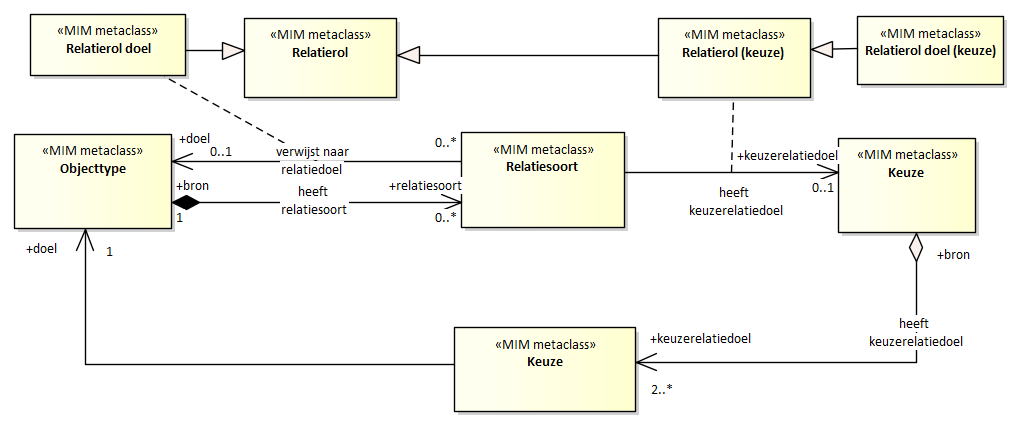
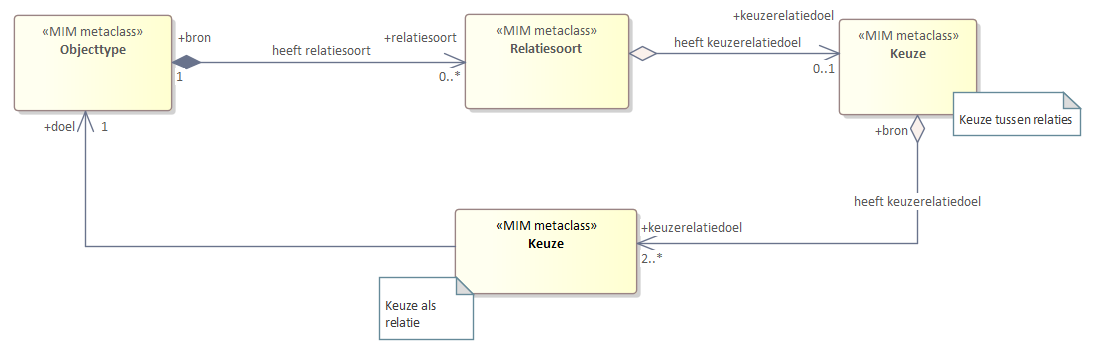
diagrammen keuze aangepast

diff --git a/MetamodelAlgemeen.md b/MetamodelAlgemeen.md
@@ -128,8 +128,8 @@ Het modelelement keuze bepaalt dat er meerdere opties mogelijk zijn, waarvan er 
  1. een keuze tussen datatypen ([diagram](#example-keuze-tussen-datatypen))
  1. een keuze tussen twee of meer attribuutsoorten ([diagram](#example-keuze-tussen-twee-of-meer-attribuutsoorten))
  1. een keuze tussen meerdere manieren om één betekenisvol attribuutsoort in te vullen ([diagram](#example-keuze-tussen-meerdere-manieren-om-een-betekenisvol-attribuutsoort-in-te-vullen))
- 1. een keuze tussen relatiedoelen, als nadere invulling van één betekenisvolle relatiesoort ([diagram](#example-keuze-tussen-relatiedoelen))
- 1. een keuze tussen twee of meer relatiesoorten/relatierollen (elk afzonderlijk betekenisvol) ([diagram(#linkOpnemen))
+ 1. een keuze tussen relatiedoelen, als nadere invulling van één betekenisvolle relatiesoort ([diagram](#example-keuze-tussen-relatiedoelen-met-één-betekenisvolle-relatiesoort))
+ 1. een keuze tussen twee of meer relatiesoorten/relatierollen (elk afzonderlijk betekenisvol) ([diagram](#example-keuze-tussen-2-of-meer-relatiesoorten/relatierollen-(elk-afzonderlijk-betekenisvol))
 
 Voor elke mogelijkheid is een aparte `«MIM metaclass»` beschikbaar in het metamodel.
  1. `«MIM metaclass»`: <code>Datatype(keuze)</code>
@@ -224,18 +224,22 @@ Voor elke mogelijkheid is een aparte `«MIM metaclass»` beschikbaar in het meta
     </ul>
   </p>
 
-</aside>
+</aside> -->
 
 <aside class="example" title="Keuze tussen 2 of meer relatiesoorten/relatierollen (elk afzonderlijk betekenisvol)">
   <p>Analoog aan de keuze tussen attribuutsoorten 2, maar dan voor relatiesoorten/relatierollen. Het objecttype kent 2 of meer relatiesoorten/relatierollen, met elk een eigen betekenis, en precies 1 hiervan is verplicht.</p>
 
   <p>Het bronobject heeft meerdere relaties die aan de orde/gevuld zouden kunnen zijn, maar er mag er altijd maar 1 aan de orde/gevuld zijn. Het bron objecttype kent 2 of meer relatiesoorten/relatierollen, met elk een eigen betekenis, en elk van deze relatiesoorten/relatierollen is gekoppeld aan (verwijst naar) een eigen doel objecttype.</p>
 
-  <p>Dit diagram is zonder de specificatie van de metagegevens hetzelfde als voor de keuze tussen relatiedoelen.Voor <code>Gegevensgroeptype</code> geldt hetzelfde patroon (2 of meer relatiesoorten vanuit een gegevensgroeptype naar een objecttype).</p>
+  <p>Dit diagram is uitgewerkt voor <code>Objecttype</code>.Voor <code>Gegevensgroeptype</code> geldt hetzelfde patroon (2 of meer relatiesoorten vanuit een gegevensgroeptype naar een objecttype).</p>
 
+  <figure id="KeuzeRelatiedoel5">
+    <img src="media/KeuzeRelatiedoel5.png" alt="" />
+    <figcaption>Keuze tussen relatiesoorten</figcaption>
+  </figure>
 
   <p>
-    <p>Toelichting: een bron objecttype of gegevensgroeptype kan normaal een relatiesoort/relatierol hebben, die gekoppeld is aan (verwijst naar) een doel objecttype. Als er sprake is van een relatiesoort/relatierol keuze, dan heeft het objecttype 1 koppeling met een _relatiesoort/relatierol keuze en deze keuze heeft 2 of meer relatiesoorten/relatierollen naar de doel objecttypes. Er moet een keuze gemaakt worden voor 1 van de relatiesoorten/relatierollen en daarmee voor het aan deze relatie gerelateerde doel objecttype. 
+    <p>Toelichting: een bron objecttype of gegevensgroeptype kan normaal een relatiesoort/relatierol hebben, die gekoppeld is aan (verwijst naar) een doel objecttype. Als er sprake is van een relatiesoort/relatierol keuze, dan heeft het objecttype 1 koppeling met een 'keuze als relatie' naar een keuze. De 'keuze als relatie' heeft geen betekenis. De 'keuze tussen relaties' heeft 2 of meer relatiesoorten/relatierollen naar de doel objecttypes. Er moet een keuze gemaakt worden voor 1 van de relatiesoorten/relatierollen en daarmee voor het aan deze relatie gerelateerde doel objecttype. 
 	 <p>Opmerkingen: 
     <ul>
       <li>elke relatiesoort of rol moet een eigen naam hebben.</li>
@@ -830,7 +834,7 @@ Er is sprake van een relatiesoort R0 en aanvullend hierbij een keuze tussen rela
 Het is bij deze use case niet de bedoeling om twee nieuwe relatiesoorten, eigenaar_persoon en eigenaar_bedrijf, te introduceren en al zeker niet om de relatiesoort eigenaar kwijt te raken. We modelleren daarom 1 relatiesoort met de naam eigenaar en een *Keuze* tussen relatiedoelen.
 
 <figure id="relatiedoelkeuze">
-  <img src="media/relatiedoelkeuze.png" alt="" />
+  <img src="media/relatiedoelkeuze-4.png" alt="" />
   <figcaption>Diagram: Voorbeeld van keuze tussen relatiedoelen</figcaption>
 </figure>
 
@@ -841,15 +845,15 @@ In het voorbeeld vormen EigenaarKeuze en de twee relatiedoelen tezamen de keuze 
 Er is sprake van een relatiesoort R1 en een relatiesoort R2. R1 heeft als doel een object van objecttype D1 en R2 heeft als doel een object van objecttype 2. In MIM modelleren we daarom een keuze met als uitgaande relatiesoorten R1 en R2. Het maken van deze keuze is verplicht.
 
 <aside class='example'>
-  Voorbeeld: een objecttype "Vervoermiddel" heeft een relatie met een contact. Dit kan een persoon of een organisatie zijn., maar niet beide. De het contact loopt via een contacttpersoon of er is een vertegenwoordigende organisatie. Beide relatiesoorten zijn specifiek en van belang om te benoemen. We modelleren daarom 1 *Keuze(relatie)* naar een *Keuze* Contactkeuze. Deze heeft twee uitgaande relatiesoorten met elk een specifieke naam en/of relatiedoel naar Persoon en Organisatie. 
+  Voorbeeld: een objecttype "Vervoermiddel" heeft een eigenaar of wordt verhuurd door een verhuurbedrijf. Beide relatiesoorten zijn specifiek en van belang om te benoemen. We modelleren daarom 1 *Keuze(relatie)* naar een *Keuze* VerhuurbedrijfOfEigenaar. Deze heeft twee uitgaande relatiesoorten met elk een specifieke naam en/of relatiedoel naar Persoon en Organisatie. 
 </aside>
 
 <figure id="relatiedoelkeuzeMetBetekenis">
-  <img src="media/Relatiedoelkeuzemetbetekenis.png" alt="" />
+  <img src="media/Relatiedoelkeuze-5.png" alt="" />
   <figcaption>Diagram: Voorbeeld van keuze tussen relatiesoorten die elk een betekenis hebben</figcaption>
 </figure>
 
-In het voorbeeld heeft Vervoermiddel de verplichte keuze tussen de relatiesoorten/rollen `heeft als contactpersoon/contactpersoon` en `wordt vertegenwoordigd door/organisatiecontact`.
+In het voorbeeld heeft Vervoermiddel de verplichte keuze tussen de relatiesoorten/rollen `heeft als contactpersoon/eigenaar` en `wordt verhuurd door/verhuurbedrijf`.
 
 
 
